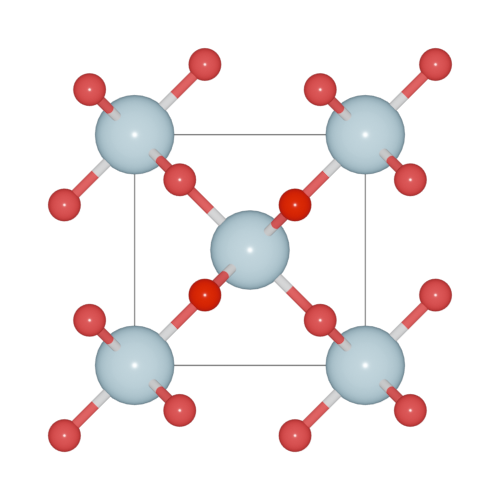
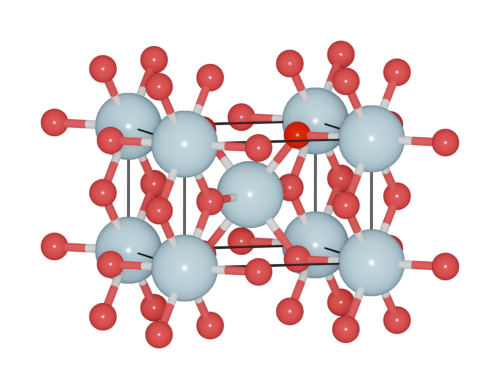
gallery

diff --git a/batoms.py b/batoms.py
@@ -268,7 +268,7 @@ class Batoms():
         self.coll.blase.model_type = model_type
         self.coll.blase.boundary = boundary
     
-    def draw_cell(self):
+    def draw_cell(self, celllinewidth = 0.03):
         """
         Draw unit cell
         """
@@ -278,7 +278,10 @@ class Batoms():
             return 0
         self.clean_blase_objects('cell', ['cylinder', 'point'])
         if self.show_unit_cell:
-            draw_cell_cylinder(self.coll.children['%s_cell'%self.label], cell_vertices, label = self.label)
+            draw_cell_cylinder(self.coll.children['%s_cell'%self.label], 
+                            cell_vertices, 
+                            label = self.label, 
+                            celllinewidth = celllinewidth)
     def draw_bonds(self, bondlinewidth = 0.1):
         """
         Draw bonds.

diff --git a/docs/source/_static/surface.py b/docs/source/_static/surface.py
@@ -1,0 +1,16 @@
+from ase.build import fcc111
+from blase.batoms import Batoms
+import numpy as np
+
+atoms = fcc111('Au', size = (8, 8, 4), vacuum=0)
+au111 = Batoms(label = 'au111', atoms = atoms)
+au111.cell[2, 2] += 10
+au111.draw_cell()
+au111.render.run(direction = [0, 0, 1], engine = 'eevee', camera_type = 'ORTHO', output = 'docs/source/_static/gallery_top_view.png')
+au111.render.run(direction = [1, 0, 0], engine = 'eevee', camera_type = 'ORTHO', output = 'docs/source/_static/gallery_side_view.png')
+au111.render.run(direction = [1, -0.3, 0.1],
+                engine = 'eevee', 
+                camera_type = 'PERSP',
+                camera_loc = au111['Au'][227] + np.array([-50, 0, 10]),
+                ratio = 1,
+                output = 'docs/source/_static/gallery_persp_view.png')

diff --git a/bdraw.py b/bdraw.py
@@ -18,7 +18,7 @@ def draw_cell_curve(coll, verts, label = None):
             p.co = np.append(verts[i], [1.0]) # (add nurbs weight)
         cell = bpy.data.objects.new("cell_%s_edge"%label, crv)
         coll.objects.link(cell)
-def draw_cell_cylinder(coll_cell, cell_vertices, label = None, celllinewidth = 0.01):
+def draw_cell_cylinder(coll_cell, cell_vertices, label = None, celllinewidth = 0.05):
     """
     Draw unit cell using cylinder.
     """

diff --git a/render.py b/render.py
@@ -216,11 +216,11 @@ class Render():
         """
         """
         from blase.butils import lock_camera_to_view
-        self.set_parameters(kwargs)
         if direction:
             self.set_direction(direction, canvas = canvas)
         if self.lock_camera_to_view:
             lock_camera_to_view(True)
+        self.set_parameters(kwargs)
         self.set_camera()
         self.set_light()
         if self.use_motion_blur:

diff --git a/docs/source/gallery.rst b/docs/source/gallery.rst
@@ -1,14 +1,82 @@
-=======
+=========
 Gallery
-=======
+=========
+
+Crystal
+=============
+
+
+
+.. list-table::
+   :widths: 25 25 25 25
+
+   * - Space-filling
+     - Ball-and-stick
+     - Polyhedral
+     - Wireframe
+   * -  |crystal1|
+     -  |crystal2|
+     -  |crystal3|
+     -  |crystal4|
+
+.. |crystal1|  image:: ../_static/batoms_model_type_0.png 
+   :width: 8cm
+.. |crystal2|  image:: ../_static/batoms_model_type_1.png 
+   :width: 8cm
+.. |crystal3|  image:: ../_static/batoms_model_type_2.png 
+   :width: 8cm
+.. |crystal4|  image:: ../_static/batoms_model_type_3.png 
+   :width: 8cm
+
+:download:`cyrstal.py <_static/batoms_model_type.py>`
+
+
+Surface
+==============
+
+.. list-table::
+   :widths: 25 25 25
+
+   * - Top View
+     - Side View
+     - Perspective View
+   * -  |surface1|
+     -  |surface2|
+     -  |surface3|
+
+.. |surface1|  image:: ../_static/gallery_top_view.png 
+   :width: 8cm
+.. |surface2|  image:: ../_static/gallery_side_view.png 
+   :width: 8cm
+.. |surface3|  image:: ../_static/gallery_persp_view.png 
+   :width: 8cm
+
+
+:download:`surface.py <_static/surface.py>`
+
+
 
 Nanoparticle
 ============
 
-.. image:: _static/wulff.png
-   :width: 6cm
 
-:download:`wulff.py <_static/wulff.py>`
+
+.. list-table::
+   :widths: 25 25 25
+
+   * - Wulff
+     - Core-shell
+     - Supported Nanoparticle
+   * -  .. image:: ../_static/wulff.png 
+     -  .. image:: ../_static/core_shell.png 
+     -  .. image:: ../_static/supported_nanoparticle.png 
+   * - :download:`wulff.py <_static/wulff.py>`
+     - 
+     -
+
+
+
+
 
 
 Cavity

diff --git a/docs/source/tutorial/boundary.rst b/docs/source/tutorial/boundary.rst
@@ -1,4 +1,3 @@
-.. module:: blase.batoms
 
 ===================
 Boundary mode
@@ -12,7 +11,7 @@ The `boundary` key in `Batoms` is used to search atoms near the boundary of the 
 >>> pt = Batoms(label = 'pt', atoms = pt)
 >>> pt.render()
 
-.. image:: _static/pt-cubic.png
+.. image:: ../_static/pt-cubic.png
    :width: 8cm
 
 
@@ -25,7 +24,7 @@ Then we change boundary to [0.02, 0.02, 0.02]:
 
 In this case, atoms in the range of [-0.02, 1.02] of the unit cell will be searched. Because `pt` is periodic, so we get more Pt atoms in the boundary (corner and face).
 
-.. image:: _static/boundary-pt-cubic.png
+.. image:: ../_static/boundary-pt-cubic.png
    :width: 8cm
 
 
@@ -38,7 +37,7 @@ Search additional atoms if species1 is included in the boundary:
 >>> tio2.model_type = 2
 
 
-.. image:: _static/search-bond-tio2-2.png
+.. image:: ../_static/search-bond-tio2-2.png
    :width: 8cm
 
 .. module:: blase.batoms

diff --git a/docs/source/tutorial/restart.rst b/docs/source/tutorial/restart.rst
@@ -1,8 +1,8 @@
-.. module:: blase.batoms
 
-===================
+
+======================================
 How to load Batoms from a collection?
-===================
+======================================
 
 When we restart from a ``.blend`` file. We can rebuild the :class:`Batoms` objects from collections. Keyword ``from_collection`` in :class:`Batoms` object is uesd to load a :class:`Batoms` collection by the name.
 
@@ -12,7 +12,7 @@ Molecule:
 >>> from blase.batoms import Batoms
 >>> co = Batoms(from_collection = 'co')
 
-.. image:: _static/ase-co.png
+.. image:: ../_static/ase-co.png
    :width: 3cm
 
 Crystal:
@@ -20,7 +20,7 @@ Crystal:
 >>> from blase.batoms import Batoms
 >>> fe = Batoms(from_collection = 'fe')
 
-.. image:: _static/ase-fe.png
+.. image:: ../_static/ase-fe.png
    :width: 3cm
 
 .. module:: blase.batoms

diff --git a/docs/source/tutorial/surface/vacancy.rst b/docs/source/tutorial/surface/vacancy.rst
@@ -21,7 +21,7 @@ Then set a different color for ``Pt_1`` species, and make it a little transparen
 >>> pt111['Pt_1'].color = [0.8, 0.1, 0.3, 0.2]
 
 
-.. image:: ../_static/pt111-vacancy.png
+.. image:: ../../_static/pt111-vacancy.png
    :width: 8cm
 
 
@@ -29,7 +29,7 @@ Then set a different color for ``Pt_1`` species, and make it a little transparen
 
     Use ``Cycles`` render engine, and set Principled BSDF node to get a better image.
 
-    .. image:: ../_static/pt111-vacancy-cycles.png
+    .. image:: ../../_static/pt111-vacancy-cycles.png
         :width: 8cm
 
 

diff --git a/docs/source/module/index.rst b/docs/source/module/index.rst
@@ -1,13 +1,17 @@
-.. _module:
 
+.. _blase:
+
+=============
 Modules
 =============
 
-.. toctree::
-   :maxdepth: 1
-   
-   batom
-   batoms
-   cell
-   bondsetting
-   render
+Quick links:
+
+.. list-table::
+
+  * - :mod:`Batom <blase.batom>`
+  * - :mod:`Batoms <blase.batoms>`
+  * - :mod:`Bondsetting <blase.bondsetting>`
+  * - :mod:`Bcell <blase.cell>`
+  * - :mod:`Render <blase.render>`
+

diff --git a/docs/source/tutorial/species.rst b/docs/source/tutorial/species.rst
@@ -1,4 +1,3 @@
-.. module:: blase.batom
 
 ===================
 Species
@@ -36,6 +35,6 @@ Here we set different color for different platinum atoms:
 >>>     atoms.info['species'].append(kind)
 >>> pt = Batoms(label = 'pt111', atoms = atoms, kind_props = kind_props)
 
-.. image:: _static/pt111-species.png
+.. image:: ../_static/pt111-species.png
    :width: 8cm
 

diff --git a/docs/source/tutorial/animation.rst b/docs/source/tutorial/animation.rst
@@ -1,5 +1,3 @@
-.. module:: blase.batoms
-
 ===================
 Animation
 ===================
@@ -35,7 +33,7 @@ Then, on Linux, run following command to convert all png files to a gif file::
     convert -dispose Background *.png animation.gif
 
 
-.. image:: _static/animation.gif
+.. image:: ../_static/animation.gif
    :width: 8cm
 
 
